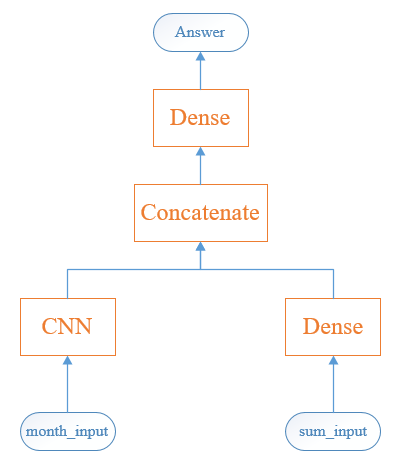
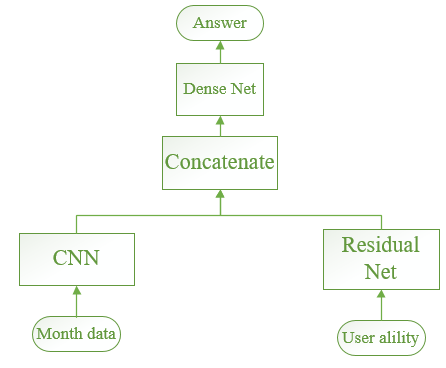
final model

Changed region(s): [[0.0311, 0.3587, 0.9952, 0.9864], [0.3421, 0.0, 0.622, 0.2989], [0.3732, 0.2989, 0.5909, 0.3886]]

diff --git a/code/jddMulti.py b/code/jddMulti.py
@@ -15,15 +15,15 @@ def loadData(source_file, sum_file, target_file, pre_file):
     target_data = pd.read_csv(target_file).fillna(0)
     pred_data = pd.read_csv(pre_file).replace([np.inf, -np.inf], 9999).fillna(0)
 
-    source_data_array = np.log1p(np.array(source_data)).reshape(90993,4,10,1)
-    sum_data_array = np.log1p(np.array(sum_data)).reshape(90993,1,1,9)
+    source_data_array = np.log1p(np.array(source_data)).reshape(90993,4,9,1)
+    sum_data_array = np.log1p(np.array(sum_data)).reshape(90993,1,1,4)
     target__data_array = np.array(target_data).reshape(90993, 1, 1, 1)
-    pred_data_array = np.log1p(np.array(pred_data)).reshape(90993, 4, 10, 1)
+    pred_data_array = np.log1p(np.array(pred_data)).reshape(90993, 4, 9, 1)
     return source_data_array, sum_data_array, target__data_array, pred_data_array
 
 
 source_data, sum_data, target_data, pred_data = loadData('../data/sourceData_8-10.csv',
-                                                '../data/userInfoSum_8-10.csv',
+                                                '../data/userAbility_8-10.csv',
 												'../data/targetData_11.csv',
 												'../data/preData_9-11.csv')
 
@@ -33,34 +33,32 @@ print("target shape is: ", target_data.shape)
 print("pred shape is:", pred_data.shape)
 
 # ConvNet
-month_input = Input(shape=(4,10, 1), dtype='float32',name='month_input')
-month_input1 = layers.Conv2D(32,(3,3), activation='relu')(month_input)
-month_input2 = layers.MaxPool2D(2,2)(month_input1)
+month_input = Input(shape=(4,9, 1), dtype='float32',name='month_input')
+month_input1 = layers.Conv2D(64,(3,3), activation='relu')(month_input)
+month_input2 = layers.MaxPool2D(2,1)(month_input1)
 month_input3 = layers.Dropout(0.2)(month_input2)
+
 month_input4 = layers.Conv2D(64,(1,3),activation='relu',\
             kernel_regularizer=regularizers.l2(l=0.001))(month_input3)
+month_input5 = layers.MaxPool2D(1,4)(month_input4)
 
-month_input5 = layers.MaxPool2D(1,2)(month_input4)
-
-# DenseNet
-sum_input = Input(shape=(1,1,9), dtype='float32', name='sum_input')
-sum_input1 = layers.Dense(128,activation='relu',kernel_regularizer=regularizers.l2(l=0.001))(sum_input)
+# Residual Net
+sum_input = Input(shape=(1,1,4), dtype='float32', name='sum_input')
+sum_input1 = layers.Dense(16,activation='relu')(sum_input)
 sum_input2 = layers.Dropout(0.2)(sum_input1)
 
-sum_input3 = layers.Dense(128, activation='relu',kernel_regularizer=regularizers.l2(l=0.001))(sum_input2)
-sum_input4 = layers.Dropout(0.5)(sum_input3)
+sum_input3 = layers.Dense(16, activation='relu')(sum_input2)
+sum_input4 = layers.Dropout(0.2)(sum_input3)
 
-sum_input5 = layers.Dense(128, activation='relu',kernel_regularizer=regularizers.l2(l=0.001))(sum_input4)
-sum_input6 = layers.Dropout(0.5)(sum_input5)
-y = layers.add([sum_input1, sum_input5]) 
+sum_input5 = layers.Dense(16, activation='relu')(sum_input4)
+res = layers.add([sum_input5, sum_input2]) 
 
-sum_input7 = layers.Dense(64,activation='relu',kernel_regularizer=regularizers.l2(l=0.001))(y)
+sum_input6 = layers.Dense(16,activation='relu',kernel_regularizer=regularizers.l2(l=0.001))(res)
 
 
 # Concat
-concatenated = layers.concatenate([month_input5, sum_input7], axis=-1)
+concatenated = layers.concatenate([month_input5, sum_input6], axis=-1)
 answer = layers.Dense(1, activation='relu')(concatenated)
-
 model = Model([month_input,sum_input], answer)
 model.compile(optimizer='adam',loss='mse')
 print("model summary is:",model.summary())
@@ -69,14 +67,14 @@ print("model summary is:",model.summary())
 model.fit({'month_input':source_data,'sum_input':sum_data},
             target_data,
             validation_split=0.1,
-            epochs=1000,
-            batch_size=128,
+            epochs=350,
+            batch_size=256,
             verbose=1
             )
 
 # prediction
-pre_sum_data = pd.read_csv('../data/userInfoSum_9-11.csv').replace([np.inf, -np.inf], 9999).fillna(0)
-pre_sum_data_array = np.log1p(np.array(pre_sum_data)).reshape(90993,1,1,9)
+pre_sum_data = pd.read_csv('../data/userAbility_9-11.csv').replace([np.inf, -np.inf], 9999).fillna(0)
+pre_sum_data_array = np.log1p(np.array(pre_sum_data)).reshape(90993,1,1,4)
 pre = model.predict({'month_input':pred_data,'sum_input':pre_sum_data_array})
 print("pre result done.")
 pre_pd = pd.DataFrame(np.array(pre).reshape(90993,1))
